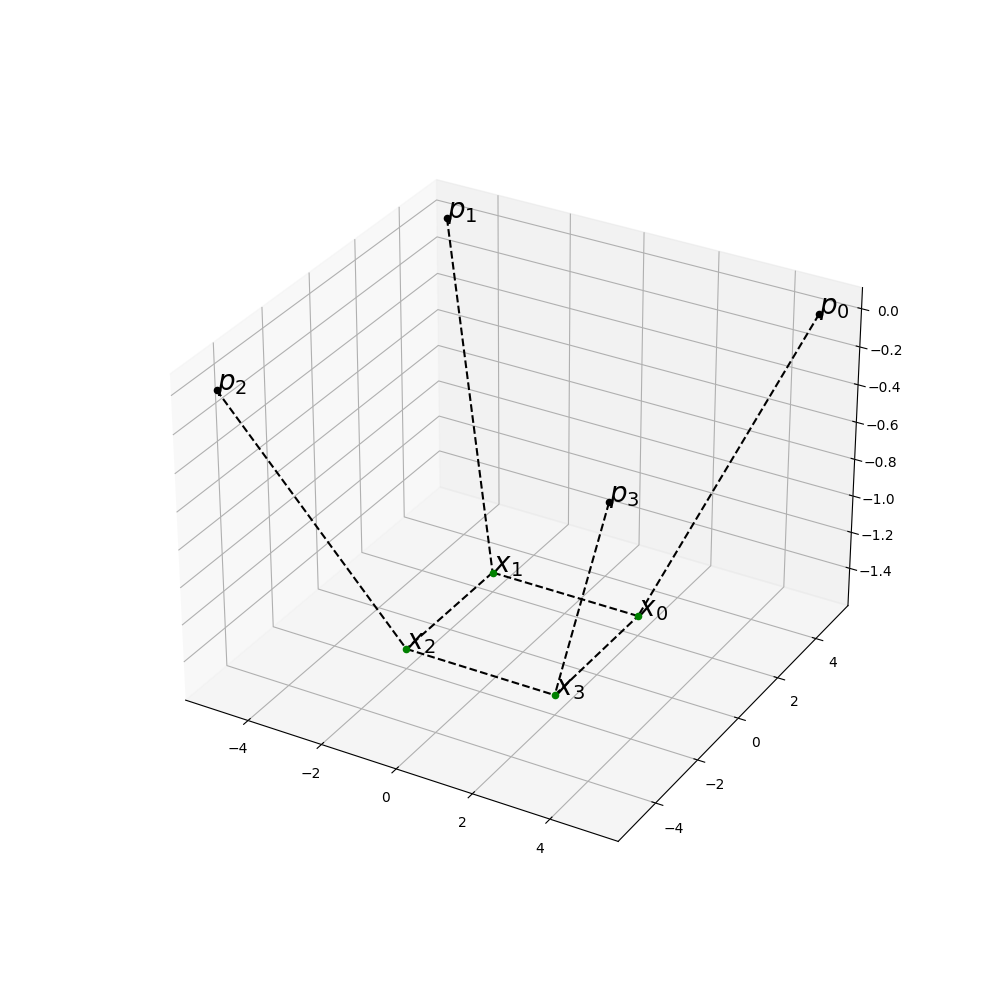
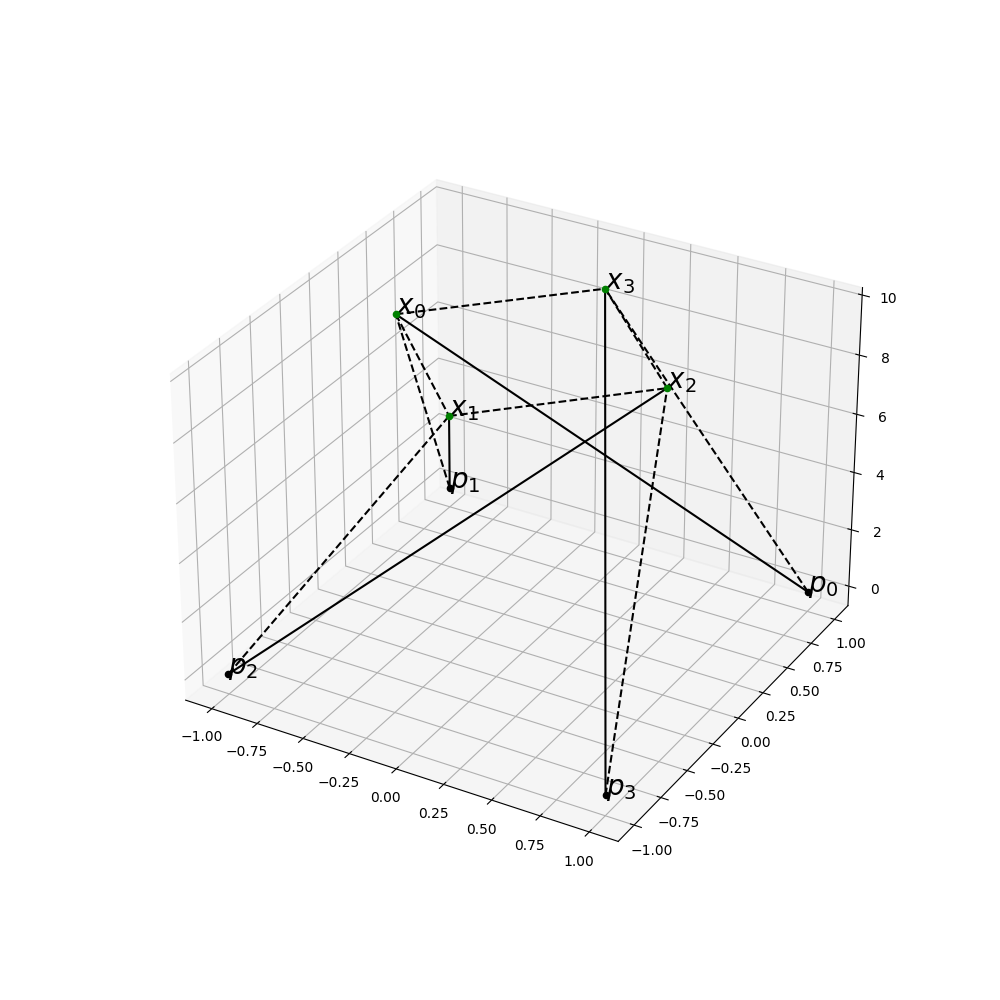
energifunksjon nesten ferdig

diff --git a/Kode/algoritmer.py b/Kode/algoritmer.py
@@ -69,15 +69,7 @@ def plot3DTensegrityStructure(x, p, cables, bars):
     return fig, ax
 
 
-def gen_E_cable_elast(p, cables, free_weights, k=2):
-    """Takes in the position of all fixed points p,
-    and information about all the cables. Generates the
-    objective function used with E_cable_elast
-
-    Returns:
-        objective function f(x) where x is a numpy array of free
-        optimization variables
-    """
+def helper_split(p, cables):
     cable_len = cables[:, -1]
     cables = np.array(cables[:, :2], dtype=int)
 
@@ -90,25 +82,60 @@ def gen_E_cable_elast(p, cables, free_weights, k=2):
     fix_free = cables[(cables[:, 1] >= len(p)) & (cables[:, 0] < len(p))]
     fix_free_len = cable_len[(cables[:, 1] >= len(p)) & (cables[:, 0] < len(p))]
     fix_free[:, 1] -= len(p)
+    return free_free, free_free_len, fix_free, fix_free_len
+
+
+def gen_E(p, cables, free_weights, bars, k=2, c=3, rho=0):
+    """Takes in the position of all fixed points p,
+    and information about all the cables and bars. Generates the
+    objective function used with E_cable_elast
+
+    Returns:
+        objective function f(x) where x is a numpy array of free
+        optimization variables
+    """
+
+    ff_cables, ff_cables_len, fx_cables, fx_cables_len = helper_split(p, cables)
+    ff_bars, ff_bars_len, fx_bars, fx_bars_len = helper_split(p, bars)
+
 
     def func(xx):
         x = np.reshape(xx, (-1, 3))
 
-        pfree = p[fix_free[:, 0]]
-        xfree = x[fix_free[:, 1]]
-        a = np.linalg.norm(pfree-xfree, axis=1) - fix_free_len
+        # Energy of cables between fixed and free point
+        pfree = p[fx_cables[:, 0]]
+        xfree = x[fx_cables[:, 1]]
+        a = np.linalg.norm(pfree-xfree, axis=1) - fx_cables_len
         a = np.where(a<0, 0, a)
-        Efixfree = (k /fix_free_len**2 * a) @ a
 
-        xfree1 = x[free_free[:, 0]]
-        xfree2 = x[free_free[:, 1]]
-        b = np.linalg.norm(xfree1-xfree2, axis=1) - free_free_len
+        Efixfree = (k /(2*fx_cables_len**2) * a) @ a
+
+        # Energy of cables between free and free point
+        xfree1 = x[ff_cables[:, 0]]
+        xfree2 = x[ff_cables[:, 1]]
+        b = np.linalg.norm(xfree1-xfree2, axis=1) - ff_cables_len
         b = np.where(b<0, 0, b)
-        Efreefree = (k /free_free_len**2 * b) @ b
 
+        Efreefree = (k /(2*ff_cables_len**2) * b) @ b
+
+        # Energy of all free weights
         Eext = free_weights @ x[:, -1]
 
-        return Efixfree + Efreefree + Eext
+        # Energy of bars between fixed and free point
+        pfree1 = p[fx_bars[:, 0]]
+        xfree1 = x[fx_bars[:, 1]]
+        aa = np.linalg.norm(pfree1-xfree1, axis=1) - fx_bars_len
+
+        Ebar_fix_free = (c /(2*fx_bars_len**2) * aa) @ aa
+
+        # Energy of cables between free and free point
+        xfree11 = x[ff_bars[:, 0]]
+        xfree22 = x[ff_bars[:, 1]]
+        bb = np.linalg.norm(xfree11-xfree22, axis=1) - ff_bars_len
+
+        Ebar_free_free = (c /(2*ff_bars_len**2) * bb) @ bb
+
+        return Efixfree + Efreefree + Eext + Ebar_fix_free + Ebar_free_free
     return func
 
 

diff --git a/Kode/main.py b/Kode/main.py
@@ -1,6 +1,7 @@
 import matplotlib.pyplot as plt
 import numpy as np
-from algoritmer import plot3DTensegrityStructure
+from scipy.optimize import minimize
+from algoritmer import plot3DTensegrityStructure, gen_E
 
 
 # x = np.linspace(0, 1, 100)
@@ -11,18 +12,18 @@ from algoritmer import plot3DTensegrityStructure
 
 # Fixed points
 pp = np.array([
-    [5, 5, 0],
-    [-5, 5, 0],
-    [-5, -5, 0],
-    [5, -5, 0]
+    [1, 1, 0],
+    [-1, 1, 0],
+    [-1, -1, 0],
+    [1, -1, 0]
 ])
 
 # Free point weights
 fw = np.array([
-    1/6,
-    1/6,
-    1/6,
-    1/6
+    0,
+    0,
+    0,
+    0
 ])
 
 # Index lists
@@ -30,28 +31,43 @@ p = np.arange(0, len(pp))
 x = np.arange(len(pp), len(pp) + len(fw))
 
 cables = np.array([
-    [p[0], x[0], 3],
-    [p[1], x[1], 3],
-    [p[2], x[2], 3],
-    [p[3], x[3], 3],
-    [x[0], x[1], 3],
-    [x[1], x[2], 3],
-    [x[2], x[3], 3],
-    [x[3], x[0], 3]
+    [p[0], x[3], 8],
+    [p[1], x[0], 8],
+    [p[2], x[1], 8],
+    [p[3], x[2], 8],
+    [x[0], x[3], 1],
+    [x[0], x[1], 1],
+    [x[1], x[2], 1],
+    [x[2], x[3], 1]
 ])
 
 bars = np.array([
-    # [p[0], x[2], 4]
+    [p[0], x[0], 10],
+    [p[1], x[1], 10],
+    [p[2], x[2], 10],
+    [p[3], x[3], 10]
 ])
+
+f = gen_E(pp, cables, fw, bars, k=0.1, c=1, rho=0)
+
+
+x0 = np.ones(3 * len(fw))
+res = minimize(f, x0, method='CG')
+points = res.x
+sol = np.reshape(points, (-1, 3))
+print(sol)
+
+# print(sol)
 
 # Assume sol is the solution of some optimization algorithm
 # sol = BFGS(problem)
-sol = np.array([
-    [2, 2, -3/2],
-    [-2, 2, -3/2],
-    [-2, -2, -3/2],
-    [2, -2, -3/2]
-])
+# sol = np.array([
+#     [2, 2, -3/2],
+#     [-2, 2, -3/2],
+#     [-2, -2, -3/2],
+#     [2, -2, -3/2]
+# ])
+
 
 fig, ax = plot3DTensegrityStructure(sol, pp, cables, bars)
 plt.savefig("./Bilder/oppg1.png")
